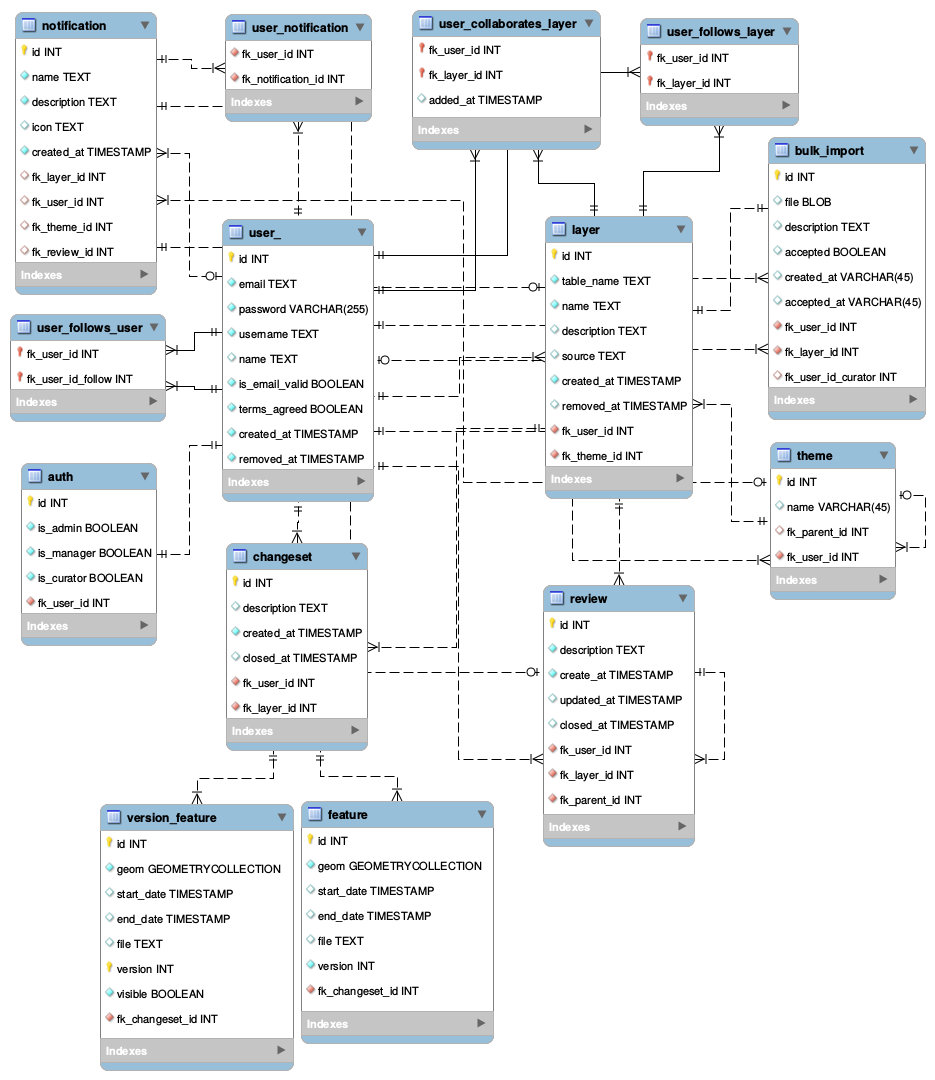
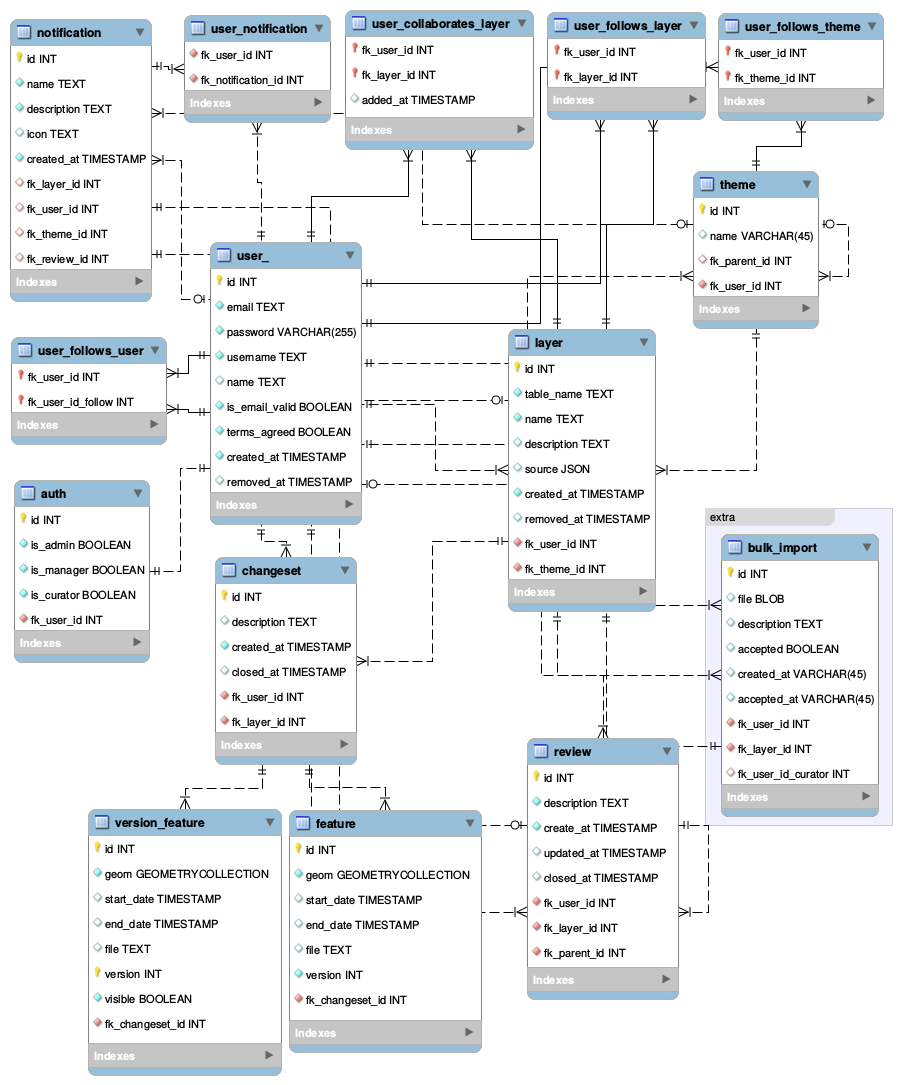
Updated the diagrams and creating feature tables to save the layer's data

Changed region(s): [[0.0, 0.0, 0.9933, 1.0], [0.4656, 0.4889, 0.4967, 0.6111], [0.745, 0.825, 0.7761, 0.8556]]

diff --git a/models/db_connection.py b/models/db_connection.py
@@ -64,11 +64,11 @@ def if_neo4j_is_not_running_so_put_db_offline_and_raise_500_error_status(method)
 
 def validate_feature_json(feature_json):
     properties = feature_json["properties"]
-    tags = feature_json["tags"]
+    # tags = feature_json["tags"]
 
     # if tags if not instance of dict, raise exception
-    if not isinstance(tags, dict):
-        raise HTTPError(400, "The 'tags' attribute must be a JSON, it is " + str(type(tags)))
+    # if not isinstance(tags, dict):
+    #     raise HTTPError(400, "The 'tags' attribute must be a JSON, it is " + str(type(tags)))
 
     if not isinstance(properties, dict):
         raise HTTPError(400, "The 'properties' attribute must be a JSON, it is " + str(type(properties)))
@@ -569,13 +569,23 @@ class PGSQLConnection:
 
         return results_of_query
 
-    def add_layer_in_db(self, project_id, user_id, tags):
-        tags = dumps(tags)  # convert python dict to json to save in db
+    def add_layer_in_db(self, properties, user_id):
+        # tags = dumps(tags)  # convert python dict to json to save in db
+
+        # get the fields to add in DB
+        table_name = properties["table_name"]
+        name = properties["name"]
+        description = properties["description"]
+        source = properties["source"]
+        # fk_user_id = properties["fk_user_id"]
+        fk_theme_id = properties["fk_theme_id"]
+
+        print("user_id: ", user_id)
 
         query_text = """
-            INSERT INTO layer (created_at, fk_project_id, fk_user_id, tags) 
-            VALUES (LOCALTIMESTAMP, {0}, {1}, '{2}') RETURNING id;
-        """.format(project_id, user_id, tags)
+            INSERT INTO layer (table_name, name, description, source, fk_user_id, fk_theme_id, created_at) 
+            VALUES ('{0}', '{1}', '{2}', '{3}', {4}, {5}, LOCALTIMESTAMP) RETURNING id;
+        """.format(table_name, name, description, source, user_id, fk_theme_id)
 
         # do the query in database
         self.__PGSQL_CURSOR__.execute(query_text)
@@ -585,26 +595,30 @@ class PGSQLConnection:
 
         return result
 
-    def create_layer(self, feature_json, user_id):
+    def create_layer(self, resource_json, user_id):
 
-        validate_feature_json(feature_json)
-
-        # get the fields to add in DB
-        project_id = feature_json["properties"]["fk_project_id"]
+        validate_feature_json(resource_json)
 
         # add the layer in db and get the id of it
-        id_in_json = self.add_layer_in_db(project_id, user_id, feature_json["tags"])
+        id_in_json = self.add_layer_in_db(resource_json["properties"], user_id)
+
+        # TODO: create a new feature table
 
         return id_in_json
 
-    def delete_layer_in_db(self, feature_id):
-        if is_a_invalid_id(feature_id):
+    def delete_layer_in_db(self, resource_id):
+        if is_a_invalid_id(resource_id):
             raise HTTPError(400, "Invalid parameter.")
 
+        # query_text = """
+        #     UPDATE layer SET removed_at = LOCALTIMESTAMP WHERE id={0};
+        # """.format(feature_id)
+
         query_text = """
-            UPDATE layer SET visible = FALSE, removed_at = LOCALTIMESTAMP
-            WHERE id={0};
-        """.format(feature_id)
+            DELETE FROM layer WHERE id={0};
+        """.format(resource_id)
+
+        # TODO: new delete the table created
 
         # do the query in database
         self.__PGSQL_CURSOR__.execute(query_text)
@@ -1084,8 +1098,7 @@ class PGSQLConnection:
                         'created_at',    to_char(created_at, 'YYYY-MM-DD HH24:MI:SS'),
                         'removed_at',   to_char(removed_at, 'YYYY-MM-DD HH24:MI:SS'),
                         'terms_agreed', terms_agreed
-                    ),
-                    'tags',       tags
+                    )
                 ))
             ) AS row_to_json
             FROM 
@@ -1115,13 +1128,13 @@ class PGSQLConnection:
     def add_user_in_db(self, properties, tags):
         p = properties
 
-        tags = dumps(tags)  # convert python dict to json to save in db
+        # tags = dumps(tags)  # convert python dict to json to save in db
 
         query_text = """
-            INSERT INTO user_ (email, username, password, created_at, tags) 
-            VALUES ('{0}', '{1}', '{2}', LOCALTIMESTAMP, '{3}')
+            INSERT INTO user_ (email, username, password, created_at) 
+            VALUES ('{0}', '{1}', '{2}', LOCALTIMESTAMP)
             RETURNING id;
-        """.format(p["email"], p["username"], p["password"], tags)
+        """.format(p["email"], p["username"], p["password"])
 
         try:
             # do the query in database

diff --git a/tests/test_api_layer.py b/tests/test_api_layer.py
@@ -86,31 +86,39 @@ class TestAPILayer(TestCase):
         self.tester.api_layer(expected, user_id="1003")
 
     # layer - create and delete
-    """
+
     def test_get_api_layer_create_and_delete(self):
         # DO LOGIN
         self.tester.auth_login_fake()
 
         # create a layer
-        feature = {
-            'tags': {'created_by': 'test_api', 'description': 'description of the layer', 'name': 'layer of data'},
-            'properties': {'id': -1, 'fk_project_id': 1001},
-            'type': 'Layer'
+        resource = {
+            # 'tags': {'created_by': 'test_api', 'description': 'description of the layer', 'name': 'layer of data'},
+            # 'properties': {'id': -1, 'fk_project_id': 1001},
+            # 'type': 'Layer',
+            'type': 'Layer',
+            'properties': {'name': 'Addresses in 1869', 'table_name': 'new_layer', 'source': '',
+                           'description': '', 'fk_theme_id': 1041}
         }
-        feature = self.tester.api_layer_create(feature)
+        resource = self.tester.api_layer_create(resource)
+
+        print("resource: ", resource)
 
         # get the id of layer to REMOVE it
-        feature_id = feature["properties"]["id"]
+        resource_id = resource["properties"]["id"]
 
         # REMOVE THE layer AFTER THE TESTS
-        self.tester.api_layer_delete(feature_id)
+        self.tester.api_layer_delete(resource_id)
+
+        # it is not possible to find the layer that just deleted
+        self.tester.api_layer_error_404_not_found(layer_id=resource_id)
 
         # DO LOGOUT AFTER THE TESTS
         self.tester.auth_logout()
-    """
 
 
-"""
+
+
 
 class TestAPILayerErrors(TestCase):
 
@@ -132,6 +140,8 @@ class TestAPILayerErrors(TestCase):
         self.tester.api_layer_error_404_not_found(layer_id="998")
 
     # layer errors - create
+
+    """
 
     def test_put_api_layer_create_error_403_forbidden(self):
         feature = {
@@ -182,6 +192,6 @@ class TestAPILayerErrors(TestCase):
         # DO LOGOUT AFTER THE TESTS
         self.tester.auth_logout()
 
-"""
+    """
 # It is not necessary to pyt the main() of unittest here,
 # because this file will be call by run_tests.py

diff --git a/controllers/base.py b/controllers/base.py
@@ -366,9 +366,9 @@ class BaseHandlerTemplateMethod(BaseHandler, metaclass=ABCMeta):
         if param == "create":
             # self._create_feature(*args)
             self.put_method_api_feature_create(*args)
-        elif param == "update":
-            # self._update_feature(*args)
-            self.put_method_api_feature_update(*args)
+        # elif param == "update":
+        #     # self._update_feature(*args)
+        #     self.put_method_api_feature_update(*args)
         elif param == "close":
             self._close_feature(*args)
         elif param == "request":
@@ -488,6 +488,10 @@ class BaseHandlerLayer(BaseHandlerTemplateMethod):
         raise NotImplementedError
 
     def _delete_feature(self, *args, **kwargs):
+        current_user_id = self.get_current_user_id()
+
+        #TODO: can user delete the layer?
+
         self.PGSQLConn.delete_layer_in_db(*args)
 
 

diff --git a/tests/util/clean_db.py b/tests/util/clean_db.py
@@ -107,8 +107,8 @@ def prepare_test_db_before_tests(arguments):
         print("\nCleaning and creating the schema of DB.")
         PGSQLConn.execute(schema_data, modify_information=True)
 
-        print("Inserting the triggers in DB.")
-        PGSQLConn.execute(trigger_data, modify_information=True)
+        # print("Inserting the triggers in DB.")
+        # PGSQLConn.execute(trigger_data, modify_information=True)
 
         # just insert test data if it is in debug mode
         if "--debug" in arguments and arguments["--debug"] is True:

diff --git a/models/util/user.py b/models/util/user.py
@@ -5,7 +5,7 @@
 def get_subquery_user_table(**kwargs):
     # DEFAULT WHERE
     # by default, get all results that are visible (that exist)
-    conditions_of_where = ["visible=TRUE"]
+    conditions_of_where = ["removed_at is NULL"]  # visible=TRUE
 
     # conditions of WHERE CLAUSE
     if "user_id" in kwargs and kwargs["user_id"] is not None:

diff --git a/doc/api/feature/layer.md b/doc/api/feature/layer.md
@@ -14,7 +14,7 @@ This method gets layers from DB. If you doesn't put any parameter, so will retur
      - Get one layer by id: http://localhost:8888/api/layer/?layer_id=1001
      - Get layers by user id: http://localhost:8888/api/layer/?user_id=1001
 - Send:
-- Response: a JSON that contain the features selected. Example:
+- Response: a JSON that contains the resources selected. Example:
     ```javascript
     {
         'features': [
@@ -32,8 +32,8 @@ This method gets layers from DB. If you doesn't put any parameter, so will retur
     ```
 - Error codes:
     - 400 (Bad Request): Invalid parameter.
-    - 404 (Not Found): Not found any feature.
-    - 500 (Internal Server Error): Problem when get a feature. Please, contact the administrator.
+    - 404 (Not Found): Not found any resource.
+    - 500 (Internal Server Error): Problem when get a resource. Please, contact the administrator.
 - Notes:
 
 
@@ -42,8 +42,8 @@ This method gets layers from DB. If you doesn't put any parameter, so will retur
 This method create a new layer described in a JSON.
 - Parameters:
 - Examples:
-     - Create a feature: ```PUT http://localhost:8888/api/layer/create```
-- Send: a JSON describing the feature. Example:
+     - Create a resource: ```PUT http://localhost:8888/api/layer/create```
+- Send: a JSON describing the resource. Example:
     ```javascript
     {
         'tags': {'created_by': 'agostinho', 'name': 'layer of theathers',
@@ -53,13 +53,13 @@ This method create a new layer described in a JSON.
         'type': 'Layer'
     }
     ```
-- Response: a JSON that contain the id of the feature created. Example:
+- Response: a JSON that contains the id of the resource created. Example:
     ```javascript
     {'id': 7}
     ```
 - Error codes:
     - 403 (Forbidden): It is necessary a user logged in to access this URL.
-    - 500 (Internal Server Error): Problem when create a feature. Please, contact the administrator.
+    - 500 (Internal Server Error): Problem when create a resource. Please, contact the administrator.
 - Notes: The key "id", when send a JSON, is indifferent. It is just there to know where the key "id" have to be.
 
 
@@ -70,14 +70,14 @@ This method create a new layer described in a JSON.
 
 This method delete one layer by id = #id.
 - Parameters:
-    - #id (mandatory): the id of the feature that is a positive integer not null (e.g. 1, 2, 3, ...).
+    - #id (mandatory): the id of the resource that is a positive integer not null (e.g. 1, 2, 3, ...).
 - Examples:
-     - Delete a feature by id: ```DELETE http://localhost:8888/api/layer/7```
+     - Delete a resource by id: ```DELETE http://localhost:8888/api/layer/7```
 - Send:
 - Response:
 - Error codes:
     - 400 (Bad Request): Invalid parameter.
     - 403 (Forbidden): It is necessary a user logged in to access this URL.
-    - 404 (Not Found): Not found any feature.
-    - 500 (Internal Server Error): Problem when delete a feature. Please, contact the administrator.
+    - 404 (Not Found): Not found any resource.
+    - 500 (Internal Server Error): Problem when delete a resource. Please, contact the administrator.
 - Notes:

diff --git a/doc/api/README.md b/doc/api/README.md
@@ -2,12 +2,12 @@
 
 - [Miscellaneous](miscellaneous.md)
 - [Login](login.md)
-- [Group](feature/group.md)
-- [Project](feature/project.md)
+<!-- - [Group](feature/group.md) -->
+<!-- - [Project](feature/project.md) -->
 - [Layer](feature/layer.md)
-- [Theme](feature/theme.md)
+<!-- - [Theme](feature/theme.md) -->
 - [Changeset](feature/changeset.md)
-- [Element](feature/element.md)
-- [Dynamic Attribute](feature/dynamic_attribute.md)
+<!-- - [Element](feature/element.md) -->
+<!-- - [Dynamic Attribute](feature/dynamic_attribute.md) -->
 - [User](feature/user.md)
 <!-- - [Notification](feature/notification.md) -->
